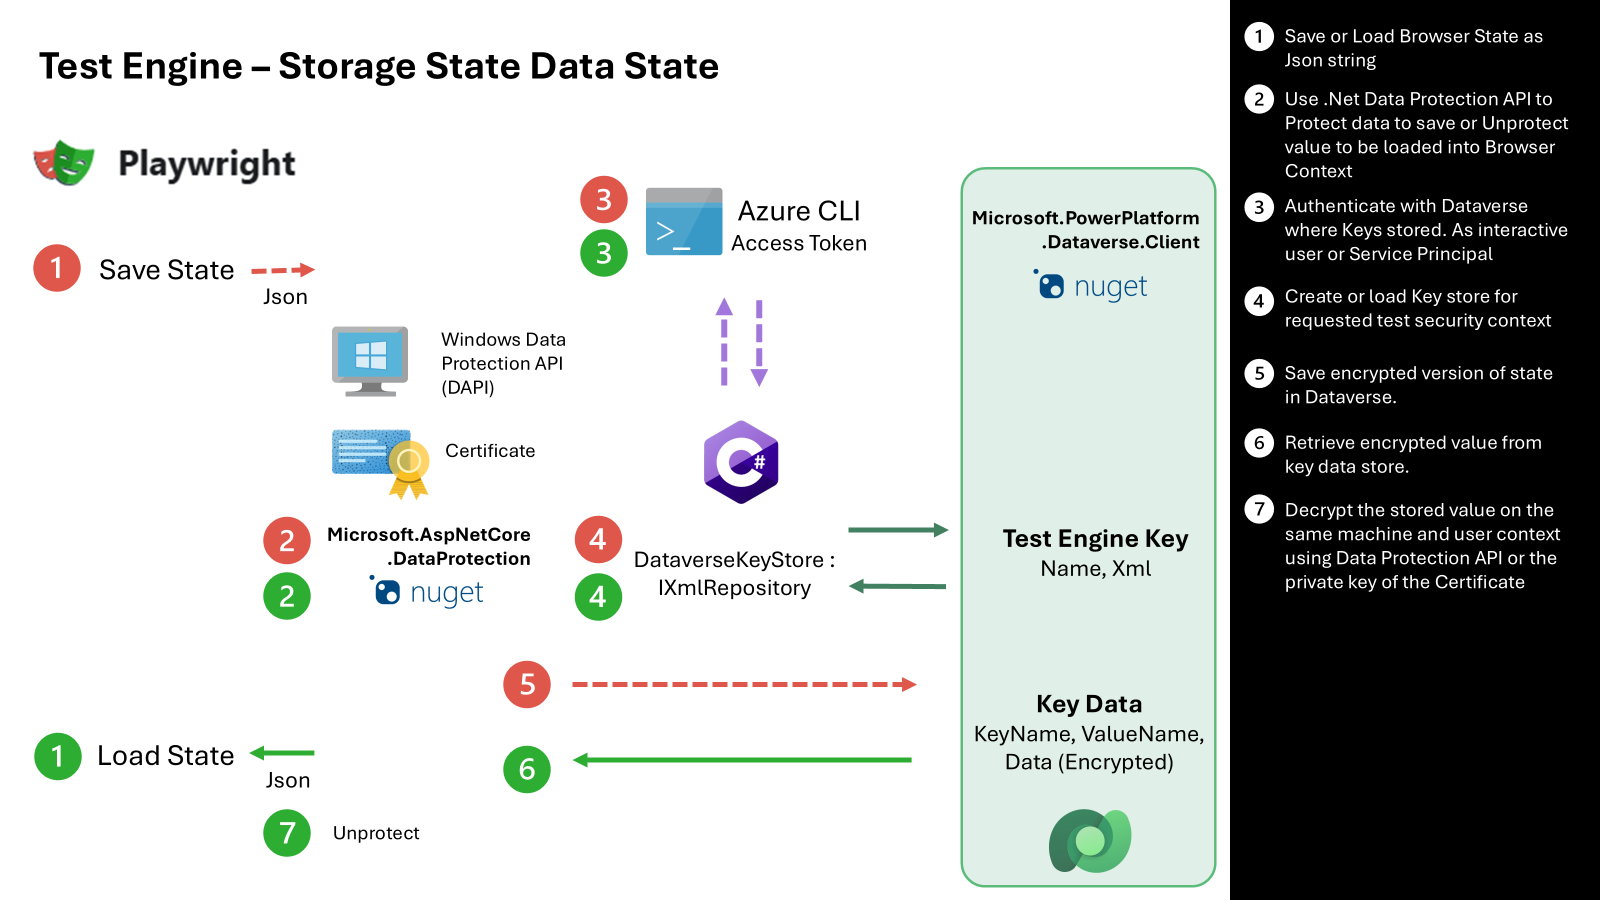
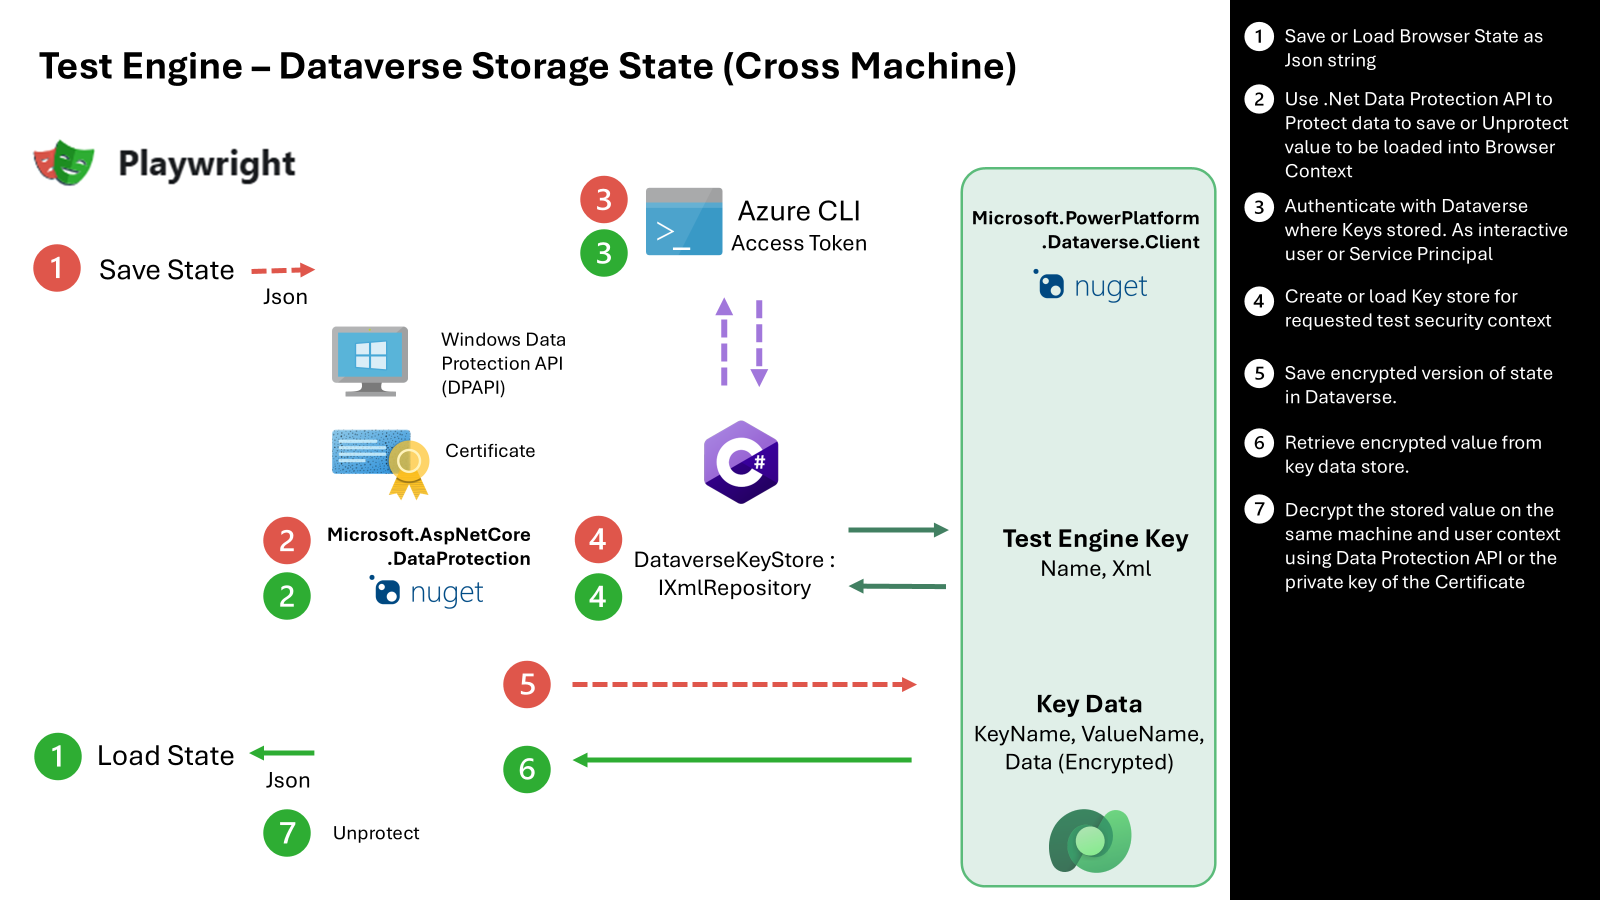
Update on auth changes

Changed region(s): [[0.1562, 0.0622, 0.6562, 0.0933], [0.2812, 0.4044, 0.3125, 0.4356]]

diff --git a/context/security-testengine-storage-state-deep-dive.md b/context/security-testengine-storage-state-deep-dive.md
@@ -1,4 +1,21 @@
-# Deep Dive: Test Engine Storage State Security
+---
+title: Deep Dive - Test Engine Storage State Security
+layout: single
+author_profile: true
+read_time: true
+permalink: /context/security-testengine-storage-state-deep-dive
+toc: true
+entries_layout: grid
+feature_row:
+  - image_path: /assets/images/windows.png
+    alt: "Windows Machine icon"
+    title: '<center style="width=300px">Local Windows PC</center>'
+    url: /context/security-testengine-storage-state-deep-dive#local-windows
+  - image_path: /assets/images/dataverse.png
+    alt: "Dataverse icon"
+    title: '<center style="width=300px">Data Protection with Dataverse</center>'
+    url: /context/security-testengine-storage-state-deep-dive#data-protection-dataverse
+---
 
 One of the key elements of automated discussion using the multiple profiles of automated testing of Power apps is the security model to allow login and the security around these credentials. Understanding this deep dive is critical to comprehend how the login credential process works, how login tokens are encrypted, and how this relates to the Multi-Factor Authentication (MFA) process. Additionally, we will explore the controls that the Entra security team can put in in place and the security model across Test Engine, Playwright, Data Protection API, OAuth Login to Dataverse, Dataverse, and Key Value Store.
 
@@ -37,7 +54,23 @@ Continuous security validation and verification are crucial to maintaining a sec
 
 ## End to End Process
 
-With that context in place lets explore the end to end process at a high level
+With that context in place lets explore the possible end to end process at a high level. 
+
+{% include feature_row type=center %}
+
+### Local Windows
+
+The first and simplest option to secure storage state is using Windows Data Protection API. While this option has less components it does have limitations as it requires Microsoft Windows together the user account and machine to secure the files locally. If you are looking to execute on a different operating system or execute your tests in the context of pipelines the [Dataverse Data Protection](#data-protection-dataverse) approach will be a better approach.
+
+{% include figure popup=true image_path="/context/media/test-engine-security-storage-state-local.png" alt="Diagram of end to end process of Browser storage state using local storage and Windows Data Protection API" %}
+
+1. The current storage state user authentication provider is extended to Save and load the Playwright browser context as Encrypted values
+2. Make use of the [Windows Data Projection API](https://learn.microsoft.com/dotnet/standard/security/how-to-use-data-protection) to protect and unprotect the saved state at rest.
+3. Save encrypted json file or retrieve un protected JSON to the file system for use in other test sessions
+
+### Data Protection Dataverse
+
+The next approach makes use of a more comprehensive data protection approach that allows saved user persona state to be shared across multiple machines. This approach adopts a multi level approach to allow for a wider set of operating systems and execution environments.
 
 {% include figure popup=true image_path="/context/media/test-engine-security-storage-state.png" alt="Diagram of end to end process of Browser storage state using Microsoft Data Protection and Dataverse Data store for secure values" %}
 
@@ -47,7 +80,8 @@ With that context in place lets explore the end to end process at a high level
 4. Use a custom xml repository that provides the ability query and create Data Protection state by implementing IXmlRepository
 5. Store XML state of data protection in Dataverse Table. Encryption of XML State managed by Data Protection API and selected protection providers
 6. Make use of Dataverse Security model, sharing and auditing features are enabled to control access and record access to key and key data. Data Protection API is used to decrypt values and apply the state json to other test sessions.
-7. Use the Data Protection API to decrypt the encrypted value using Windows Data Protection API (DAPI) or X509 certificate private key.
+7. Use the Data Protection API to decrypt the encrypted value using Windows Data Protection API (DAPI) or X.509 certificate private key.
+8. A future option could also consider adding integration with [Azure Key Vault](https://learn.microsoft.com/aspnet/core/security/key-vault-configuration?view=aspnetcore-9.0)
 
 ## Tell Me More
 
@@ -77,6 +111,12 @@ The goal of the login process it work with organization defined login process so
 ### Storage State
 
 After a successful login process The storage state of the browser context can contain [cookies](https://learn.microsoft.com/entra/identity/authentication/concept-authentication-web-browser-cookies) that are used to authenticate later sessions. 
+
+The [How to: Use Data Protection](https://learn.microsoft.com/dotnet/standard/security/how-to-use-data-protection) provides more information and details on this approach.
+
+### Windows Data Protection API
+
+.NET provides access to the data protection API (DPAPI), which allows you to encrypt data using information from the current user account or computer. When you use the DPAPI, you alleviate the difficult problem of explicitly generating and storing a cryptographic key.
 
 ### Data Protection API
 

diff --git a/context/security-testengine-authentication-changes.md b/context/security-testengine-authentication-changes.md
@@ -1,0 +1,39 @@
+# Test Engine Security - Authentication Changes
+
+When the experimental release of the Test Engine was initially made available, the only authentication method provided was through environment variables for the username and password. This approach presented several issues. Firstly, it relied on Basic authentication, which is inherently less secure as it transmits credentials in an easily decodable format. Additionally, this method did not align with Microsoft's strong recommendations for Multi-Factor Authentication (MFA), which is crucial for enhancing security by requiring multiple forms of verification.
+
+The reliance on environment variables for authentication posed significant risks. Environment variables can be inadvertently exposed through logs, debugging sessions, or misconfigurations, leading to potential credential leaks. Moreover, Basic authentication does not provide the robust security measures needed to protect sensitive information, making it vulnerable to various attacks such as phishing and man-in-the-middle attacks.
+
+In response to these security concerns, the newer updates to the Test Engine have introduced a new storage state provider that integrates with the browser's storage state. This update allows for Multi-Factor Authentication, significantly enhancing the security of the authentication process. By leveraging the browser's storage state, the Test Engine can now support more secure and user-friendly authentication methods, aligning with Microsoft's Security Framework Initiative (SFI).
+
+The integration with the browser's storage state enables the use of modern authentication mechanisms, such as OAuth and OpenID Connect, which support MFA. These mechanisms provide a more secure and seamless user experience by allowing users to authenticate through familiar and trusted interfaces. Overall it allows the use organization controlled settings to manage the lifetime of the created persistant login state. 
+
+In conclusion, the shift from environment variable-based authentication to a storage state provider that supports Multi-Factor Authentication marks a significant improvement in the security posture of the Test Engine. This change not only addresses the inherent vulnerabilities of Basic authentication but also aligns with Microsoft's broader security recommendations and initiatives, ensuring a more secure and reliable authentication process for users.
+
+## Example: Previous vs. New Authentication Approach
+
+### Previous Approach: Using pac test run
+In the previous approach, the pac test run command required setting both the username and password as environment variables. Here is an example:
+
+```pwsh
+$env:user1Email="your_username"
+$env:user1PAssword="your_password"
+pac test run -test testPlan.yaml
+```
+
+This method relied on Basic authentication, which, as mentioned earlier, is less secure and does not support MFA.
+
+### New Approach: Using Storage State Provider
+
+In the new approach, only the email is set via an environment variable, and user credentials are collected during the first interactive session and saved to the storage state. Here is an example:
+
+```pwsh
+$env:user1Email="your_username"
+pac test run  -test testPlan.yaml
+```
+
+During the first run, the user will be prompted to enter their credentials interactively. These credentials are then saved securely in the browser's storage state, allowing for MFA and eliminating the need to store sensitive information in environment variables.
+
+### Deeper Dive into Storage State Authentication
+
+For a more detailed understanding of the storage state authentication and the choices available, you can refer to the [Deep Dive - Test Engine Storage State Security](./security-testengine-storage-state-deep-dive.md).

diff --git a/roles-and-responsibilities/security-architects.md b/roles-and-responsibilities/security-architects.md
@@ -49,6 +49,7 @@ Expired License: Test the behavior of the application when a user's license has 
 | Context | Notes |
 |---------|-------|
 | [Secure First Initiative](../context/security-first-initiative.md) | By integrating these principles, we aim to create robust, resilient, and secure applications that can withstand evolving cyber threats. |
+| [Test Engine Security - Authentication Changes](../context/security-testengine-authentication-changes.md) | Provides context on the evolation from basic authentication to more secure authentication providers with updated chaneges in the Power Apps Test Engine |
 | [Deep Dive: Test Engine Storage State Security](../context/security-testengine-storage-state-deep-dive.md) | One of the key elements of automated discussion using the multiple profiles of automated testing of Power apps is the security model to allow login and the security around these credentials. Understanding this deep dive is critical to comprehend how the login credential process works, how login tokens are encrypted, and how this relates to the Multi-Factor Authentication (MFA) process. |
 
 ## Discussions
